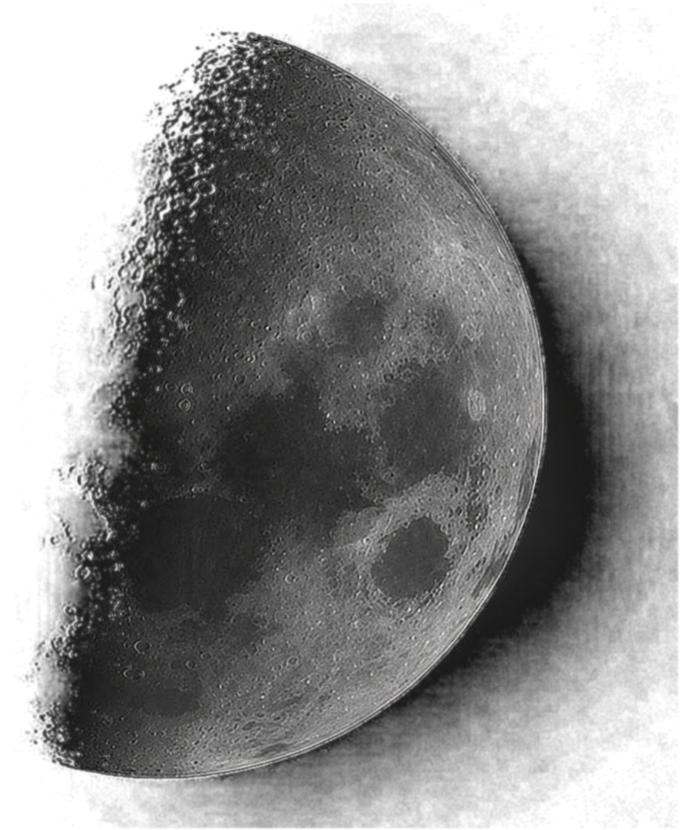
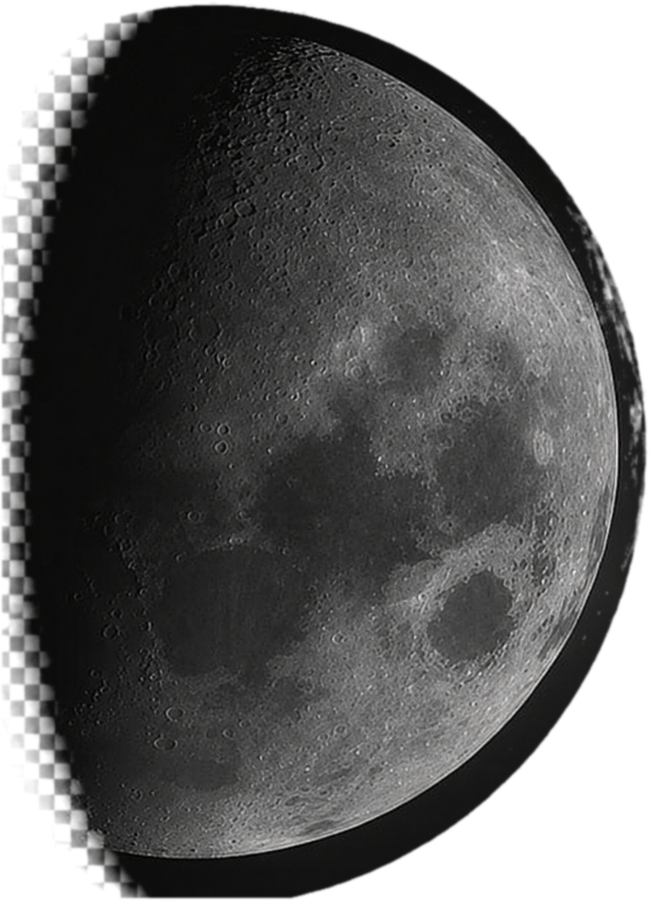
feat: use background-removed moon cutout from user upload in Experience section

diff --git a/index.html b/index.html
@@ -8,7 +8,7 @@
   <link rel="preconnect" href="https://fonts.googleapis.com">
   <link rel="preconnect" href="https://fonts.gstatic.com" crossorigin>
   <link href="https://fonts.googleapis.com/css2?family=Space+Grotesk:wght@300;400;500;600;700&family=Inter:wght@300;400;500;600&family=Space+Mono:ital,wght@0,400;0,700&display=swap" rel="stylesheet">
-  <link rel="stylesheet" href="style.css?v=11.0">
+  <link rel="stylesheet" href="style.css?v=12.0">
 </head>
 <body>
 
@@ -172,8 +172,8 @@
     <!-- Atmospheric Moon in Background — Just like Astronaut -->
     <div class="experience-moon-bg" aria-hidden="true" data-parallax="0.03">
       <picture>
-        <source srcset="assets/experience_moon.webp?v=11.0" type="image/webp">
-        <img src="assets/experience_moon.png?v=11.0" alt="" class="experience-moon-img" draggable="false" loading="lazy">
+        <source srcset="assets/experience_moon.webp?v=12.0" type="image/webp">
+        <img src="assets/experience_moon.png?v=12.0" alt="" class="experience-moon-img" draggable="false" loading="lazy">
       </picture>
     </div>
 
@@ -546,6 +546,6 @@
     </div>
   </footer>
 
-  <script src="script.js?v=11.0"></script>
+  <script src="script.js?v=12.0"></script>
 </body>
 </html>
